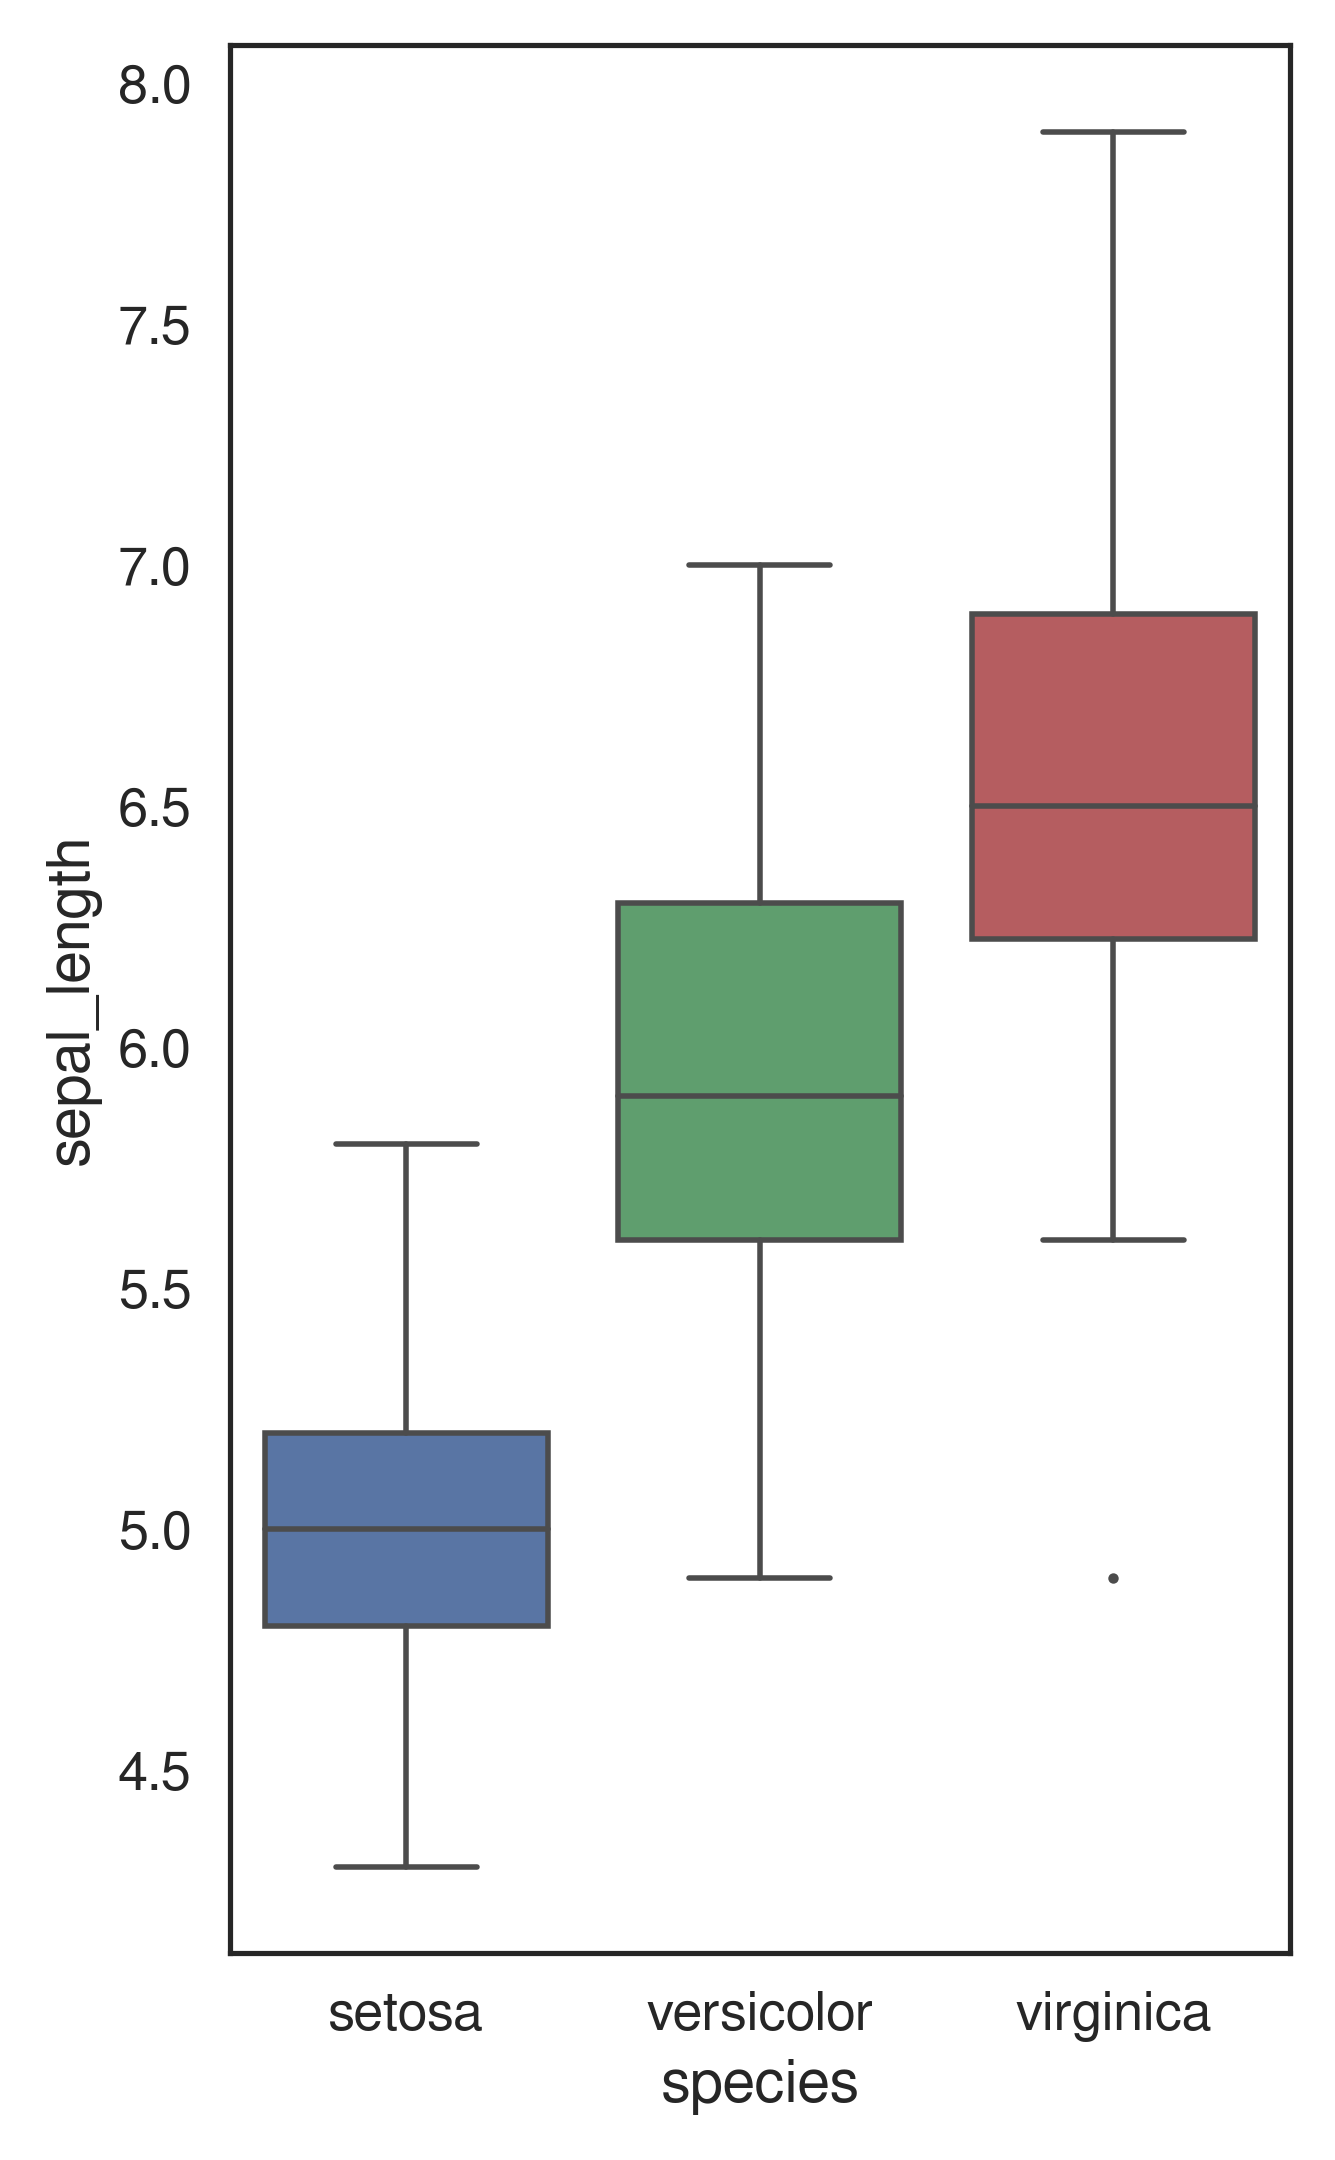
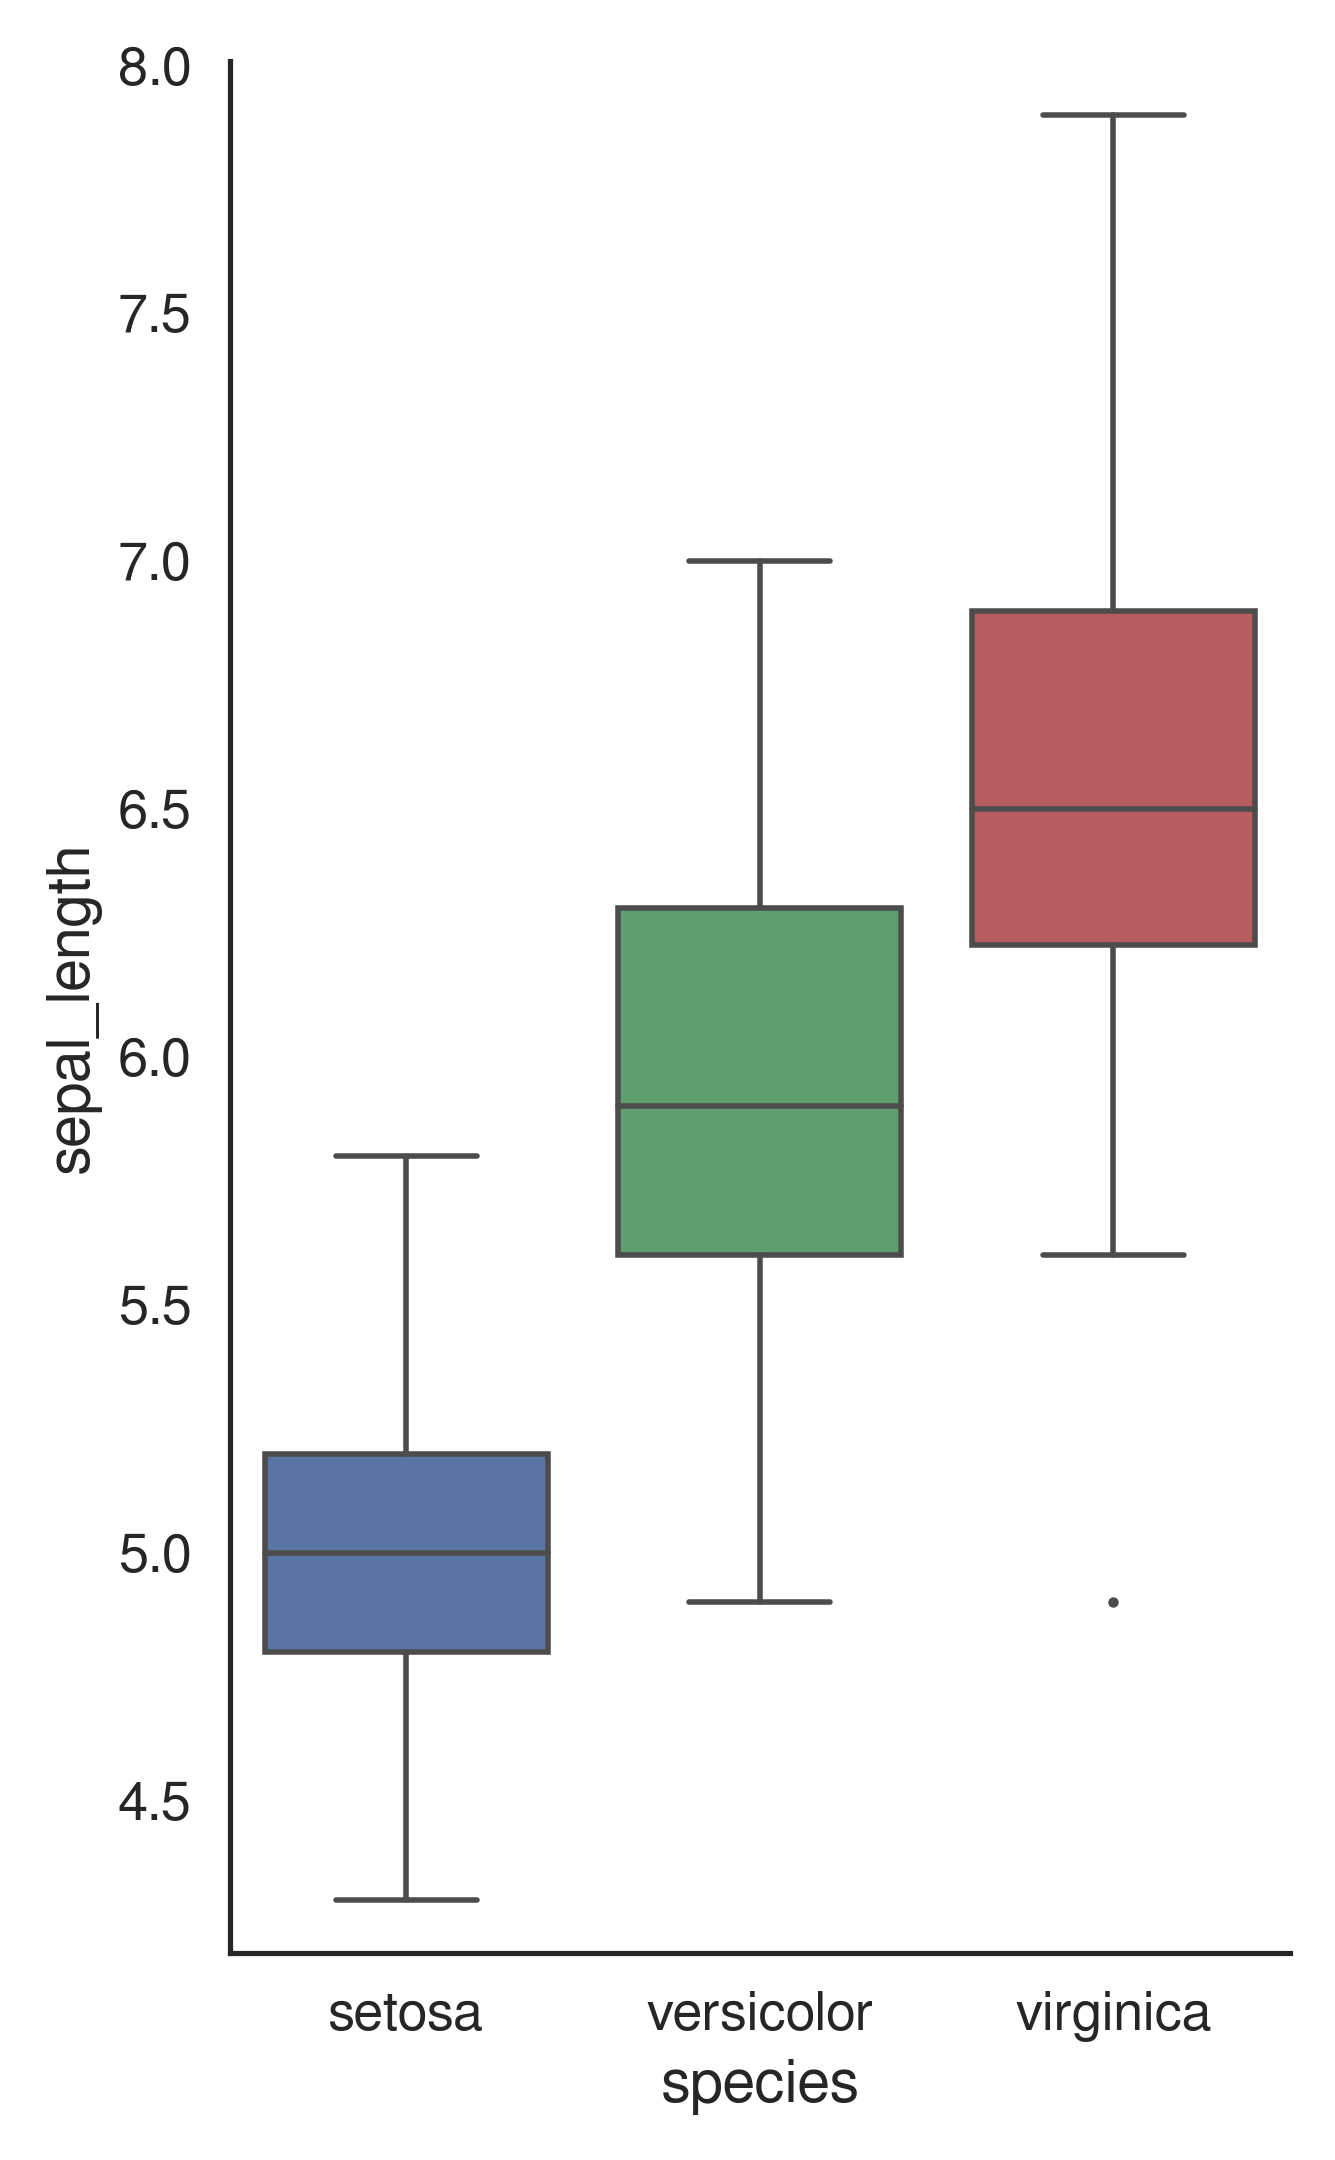
Automatically fetch dohlee.mplstyle.

diff --git a/src/dohlee/plot.py b/src/dohlee/plot.py
@@ -2,7 +2,9 @@ import matplotlib
 matplotlib.use('Agg')
 
 import sys
+import os
 import itertools
+import matplotlib as mpl
 import matplotlib.pyplot as plt
 import matplotlib.patches as patches
 import numpy as np
@@ -15,6 +17,7 @@ from matplotlib.lines import Line2D
 from collections import Counter
 from functools import wraps
 from fastTSNE import TSNE
+from urllib import request
 
 
 def _get_ax_to_draw(ax, figsize=None):
@@ -91,6 +94,18 @@ def set_suptitle(title):
 def set_style(style='white', palette='deep', context='talk', font='FreeSans', font_scale=1.00, rcparams={'figure.figsize': (11.7, 8.27)}):
     """Set plot preference in a way that looks good to me.
     """
+    import matplotlib.font_manager as font_manager
+
+    styles = plt.style.available
+    if 'dohlee' not in styles:
+        request.urlretrieve('https://sgp1.digitaloceanspaces.com/dohlee-bioinfo/dotfiles/dohlee.mplstyle', os.path.join(mpl.get_configdir(), 'dohlee.mplstyle'))
+    plt.style.use('dohlee')
+
+    mpl_data_dir = os.path.dirname(mpl.matplotlib_fname())
+    font_files = font_manager.findSystemFonts(os.path.join(mpl_data_dir, 'fonts', 'ttf'))
+    font_list = font_manager.createFontList(font_files)
+    font_manager.fontManager.ttflist.extend(font_list)
+
     sns.set(style=style,
             palette=palette,
             context=context,
@@ -426,6 +441,6 @@ def linear_regression(x, y, regression=True, ax=None, color='k'):
 
     ax.scatter(x, y, s=5, color=color)
 
-    legend = ax.legend(labels=['$R^2$ = %.3f, p = %.3g' % (r_value ** 2, p_value)], loc='best', fontsize='xx-small', handlelength=0, handletextpad=0, )
+    legend = ax.legend(labels=['$R^2$ = %.3f, p = %.3g' % (r_value ** 2, p_value)], loc='best', fontsize='small', handlelength=0, handletextpad=0, )
     for item in legend.legendHandles:
         item.set_visible(False)

diff --git a/setup.py b/setup.py
@@ -32,6 +32,7 @@ class move_ttf(install):
         import shutil
         import dohlee as doh
         import matplotlib as mpl
+        import matplotlib.font_manager as font_manager
 
         # Find where matplotlib stores its True Type fonts
         mpl_data_dir = os.path.dirname(mpl.matplotlib_fname())
@@ -59,6 +60,7 @@ class move_ttf(install):
                 fontList_path = os.path.join(mpl_cache_dir, font_list_cache_name)
                 os.remove(fontList_path)
                 print("Deleted the matplotlib " + font_list_cache_name)
+
         # except Exception as e:
         #     print(Exception)
         #     warnings.warn("WARNING: An issue occured while installing the custom fonts for dohlee.plot.")
